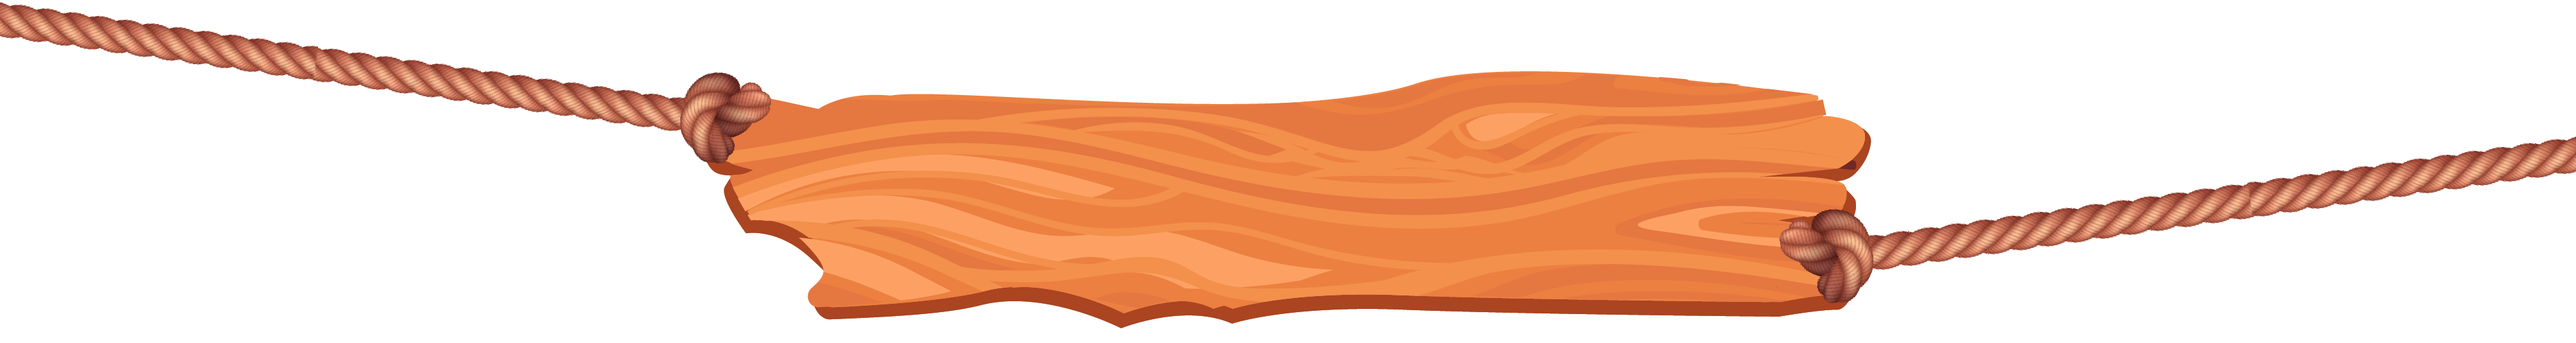
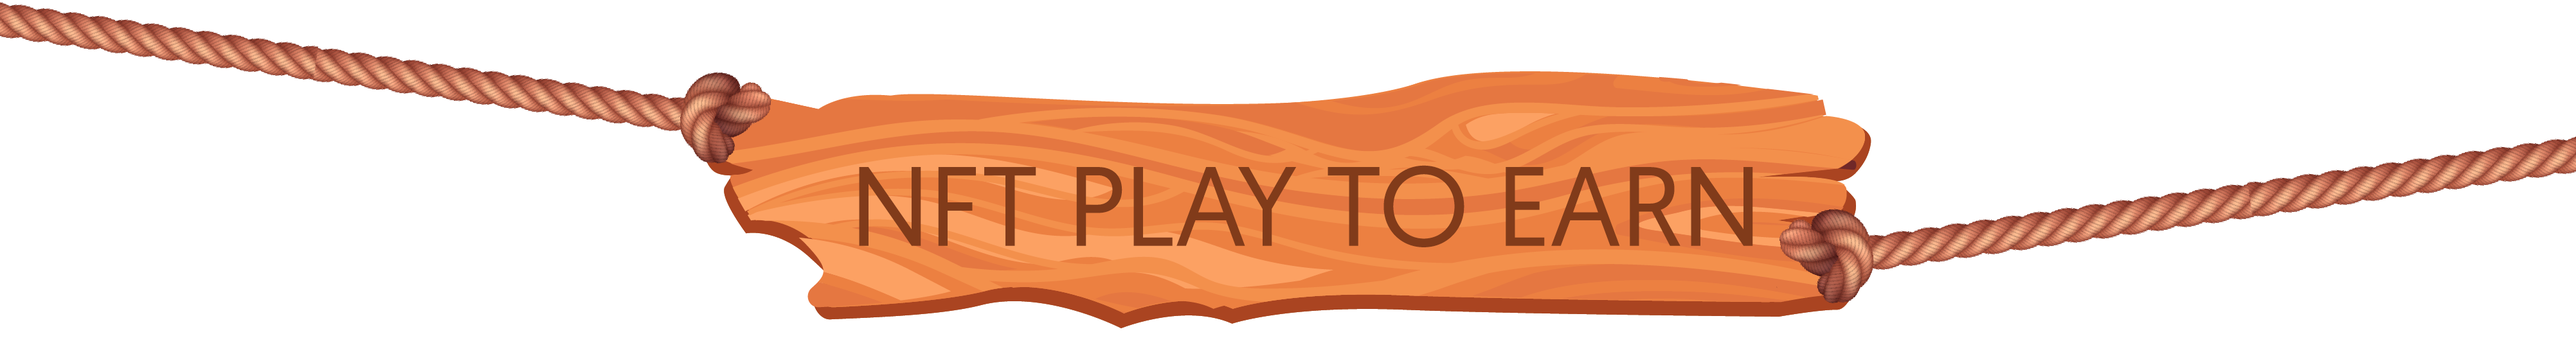
letrero nft arreglado

Changed region(s): [[0.312, 0.4794, 0.6863, 0.7191]]

diff --git a/styles.css b/styles.css
@@ -258,19 +258,31 @@
   color: white;
   text-align: center;
   font-size: 3.5rem;
-  padding: 150px;
+  padding: 100px 0px 100px 0;
 }
 
 .letrero-0 {
   background-image: url("./img/letreros/letrero-00.png");
   background-size: contain;
   background-repeat: no-repeat;
+  margin-top: 150px;
+  margin-bottom: 60px;
 }
 
-.letrero-0 span {
+@media(min-width:1600px){
+  .letrero-0 {
+    background-image: url("./img/letreros/letrero-00.png");
+    background-size: cover;
+    background-repeat: no-repeat;
+    margin-top: 150px;
+    margin-bottom: 80px;
+  }
+}
+
+/* .letrero-0 span {
   margin-top: -70px;
   display: block;
-}
+} */
 
 .cards-container{
   display: flex;

diff --git a/index.html b/index.html
@@ -81,7 +81,7 @@
     <div class="segundo-background">
 
         <!-- NFT PLAY TO EARN -->
-        <div class="mx-auto d-block letrero-0"><span>NFT PLAY TO EARN</span></div>
+        <div class="mx-auto d-block letrero-0"></div>
         <div class="container cards-container">
 
             <div class="row">
